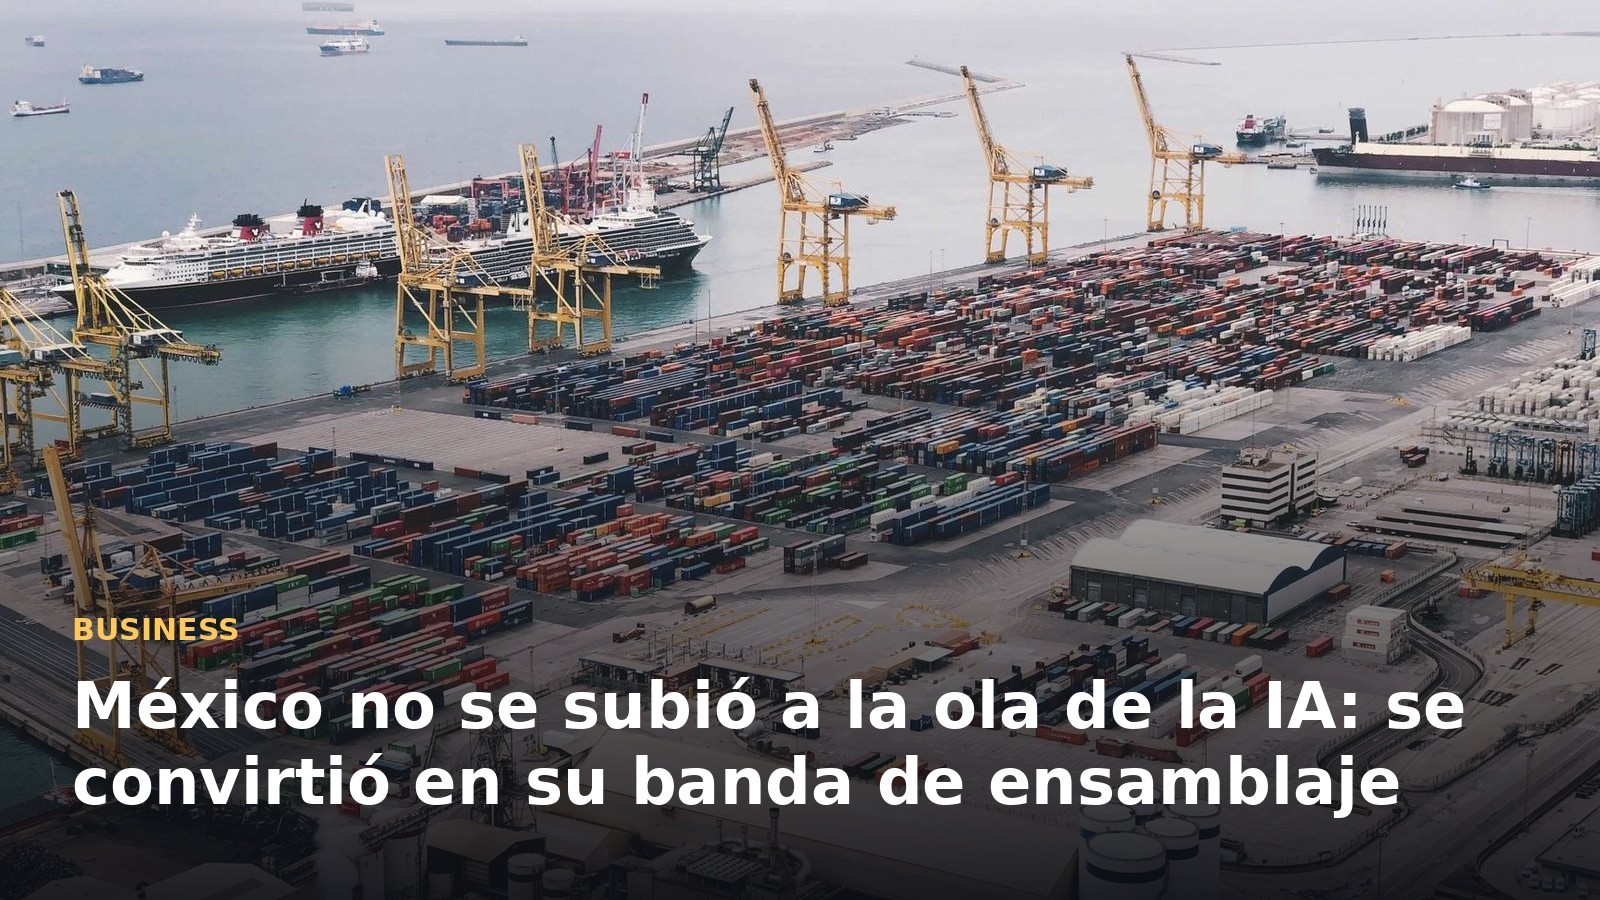
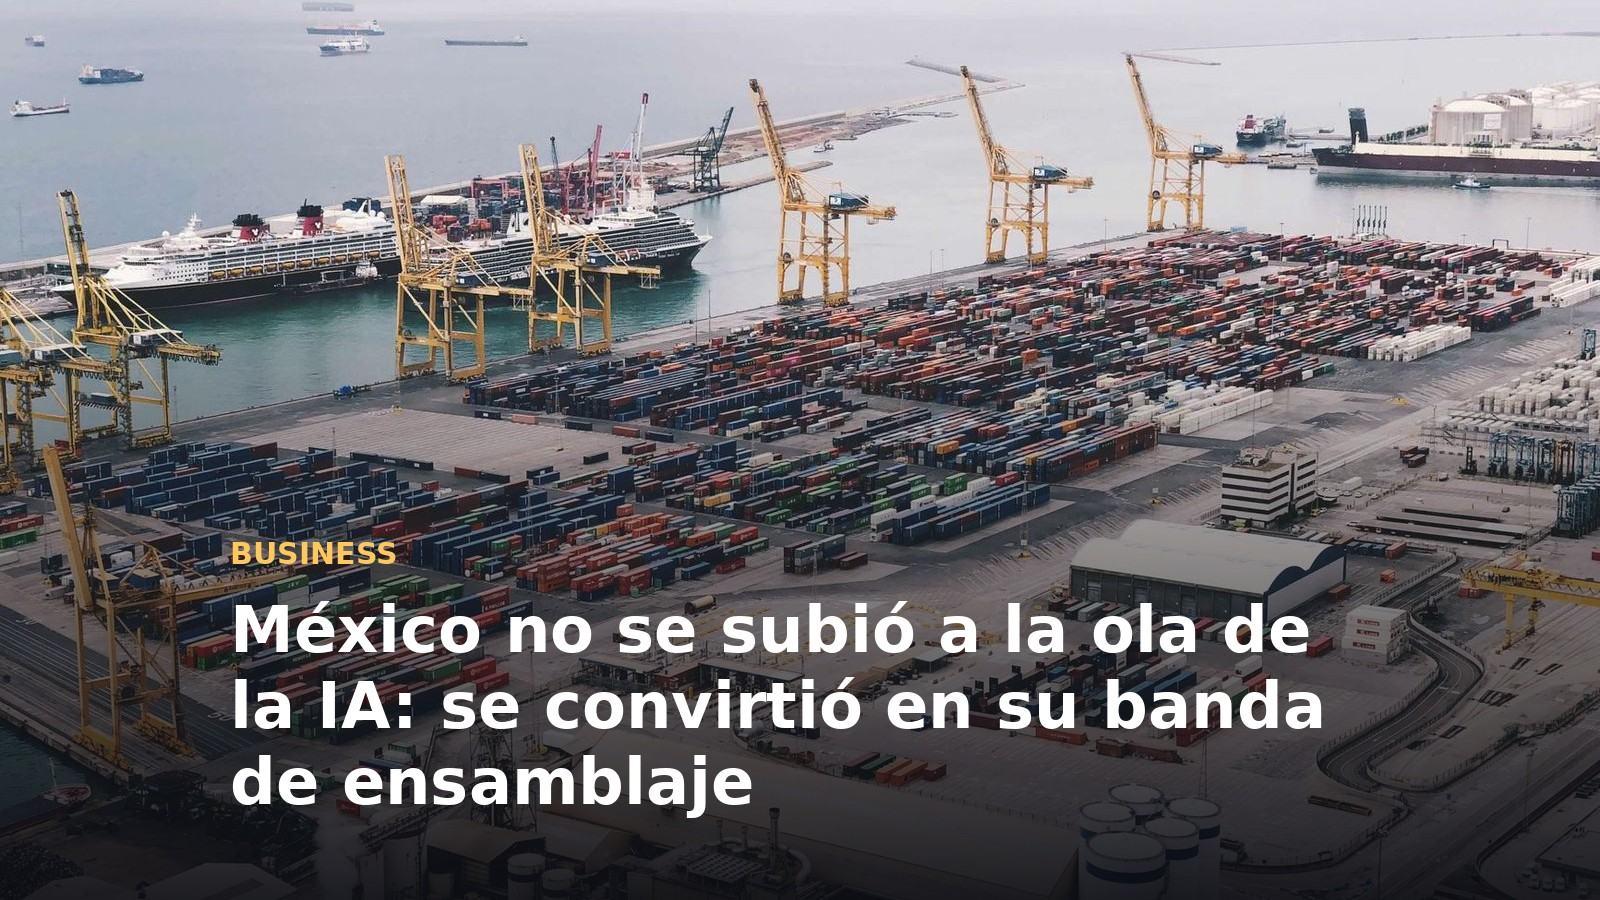
Corrige margen inseguro de las portadas y hace robusto el aviso ante deploys lentos
Portadas:
- El texto se pegaba a 72px del borde, pero el carrusel recorta esta
  imagen 16:9 a 4:3 (~12.5% de cada lado), cortando las orillas del
  título. Sube el margen a 230px (zona "title-safe") y regenera las
  dos portadas ya publicadas con este problema.

Aviso de nota nueva:
- El build de Vercel puede tardar bastante más de los 90s fijos que
  esperaba el Action (pasó con la nota de México/Fitch: el deploy no
  estaba listo, el endpoint respondió "no avisable/deploy sin la nota"
  por diseño para no avisar la nota equivocada, y como solo había un
  intento, no se avisó nada). Ahora reintenta hasta 8 veces cada 30s
  revisando el campo "enviado" de la respuesta, no solo el código HTTP.

Claude-Session: https://claude.ai/code/session_01Hy1irsgxb8SxM6AaqhiYV5

Changed region(s): [[0.0312, 0.6533, 0.9375, 0.8089], [0.0312, 0.84, 0.875, 0.9022], [0.125, 0.5911, 0.25, 0.6533]]

diff --git a/scripts/portada_titulo.py b/scripts/portada_titulo.py
@@ -75,7 +75,12 @@ def generar(entrada, salida, titulo, categoria):
 
     draw = ImageDraw.Draw(base)
 
-    margen = 72
+    # Margen "title-safe": el sitio recorta esta imagen 16:9 a proporciones
+    # más angostas en distintos lugares (el carrusel la muestra en 4:3), lo
+    # que recorta ~12.5% de cada lado. Un margen de 72px quedaba fuera de
+    # esa zona segura y el texto se cortaba por los bordes; 230px asegura
+    # que el texto sobreviva incluso el recorte 4:3 más agresivo del sitio.
+    margen = 230
     ancho_texto = ANCHO - margen * 2
 
     # Título, en 2-4 líneas según longitud (se calcula primero para poder
